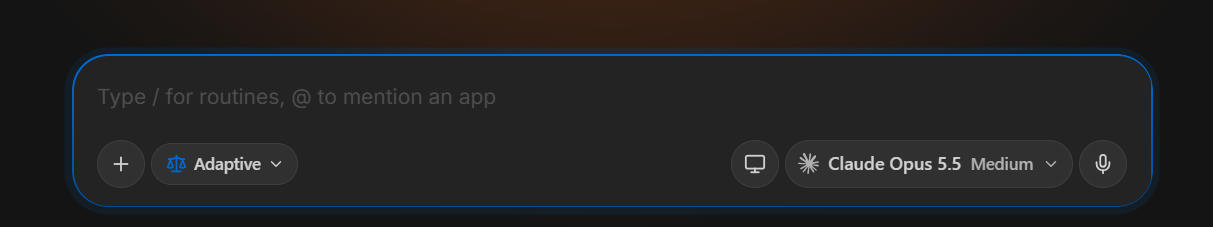
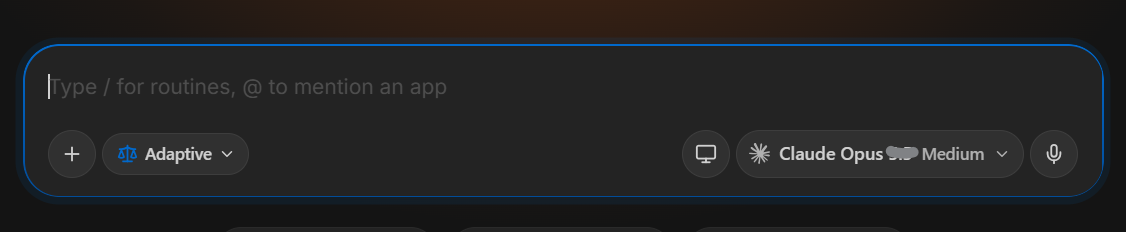
Prerequisites: model tip says Claude Opus without a version; new screenshot

diff --git a/docs/module-0-prerequisites/index.md b/docs/module-0-prerequisites/index.md
@@ -145,8 +145,8 @@ For testing, Delegate is fully integrated with **Test Manager**, so you can hand
 
 ## Set up Delegate
 
-!!! tip "Suggested model: Claude Opus 5.5"
-    This guide was built and tested with **Claude Opus 5.5** at **Medium**. Select it from the model selector next to the chatbox. Other models work too, but their results may differ from the guide's samples.
+!!! tip "Suggested model: Claude Opus"
+    This guide was built and tested with **Claude Opus** at **Medium**. Select it from the model selector next to the chatbox. Other models work too, but their results may differ from the guide's samples.
 
     ![Model selector next to the Delegate chatbox](../assets/images/Delegate%20model%20selector.png)
 
